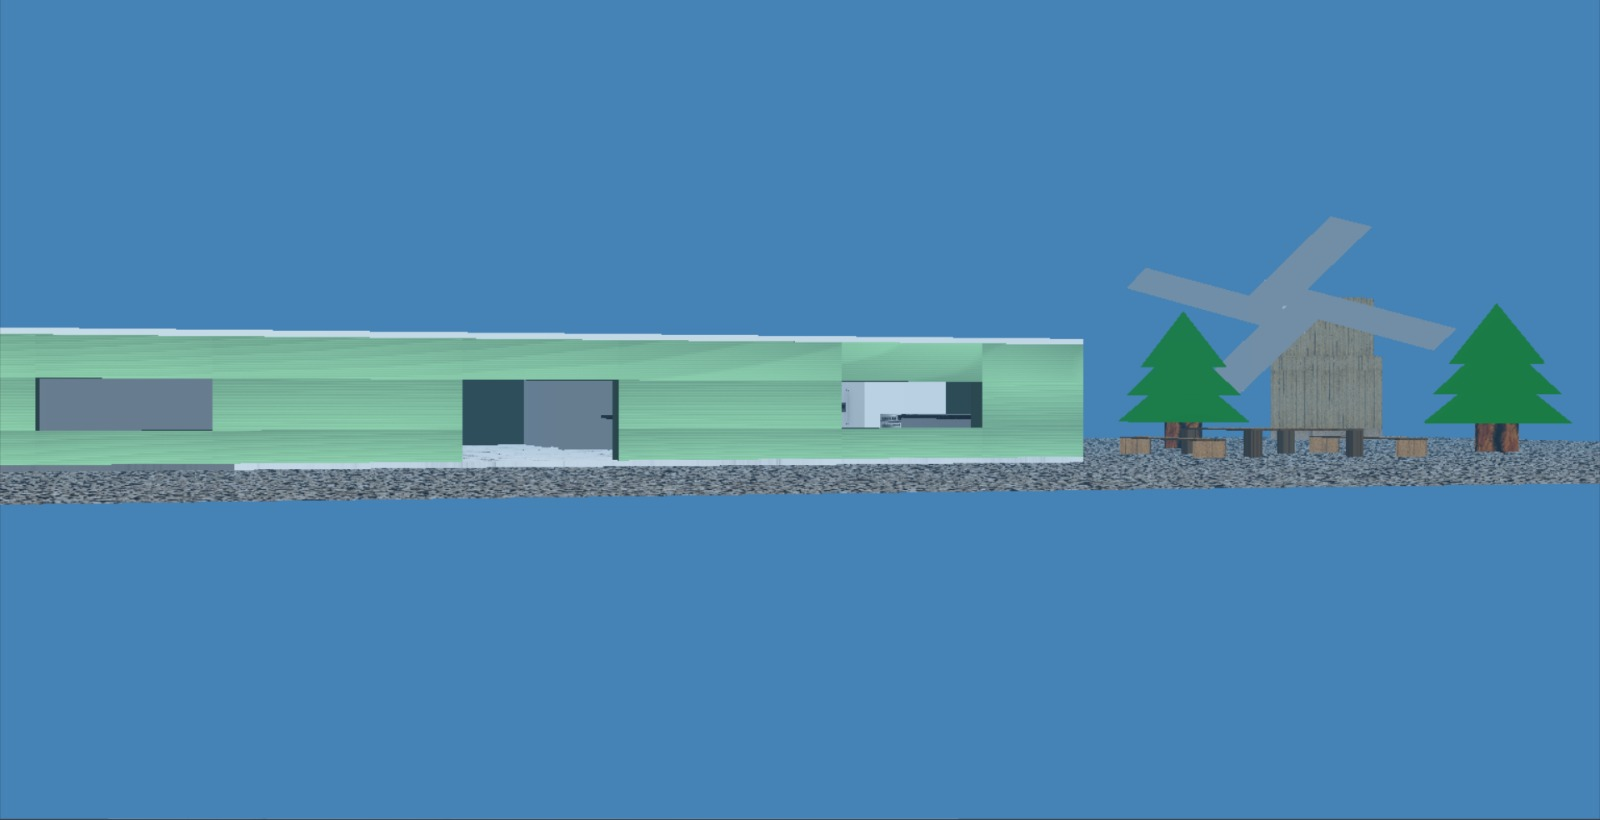
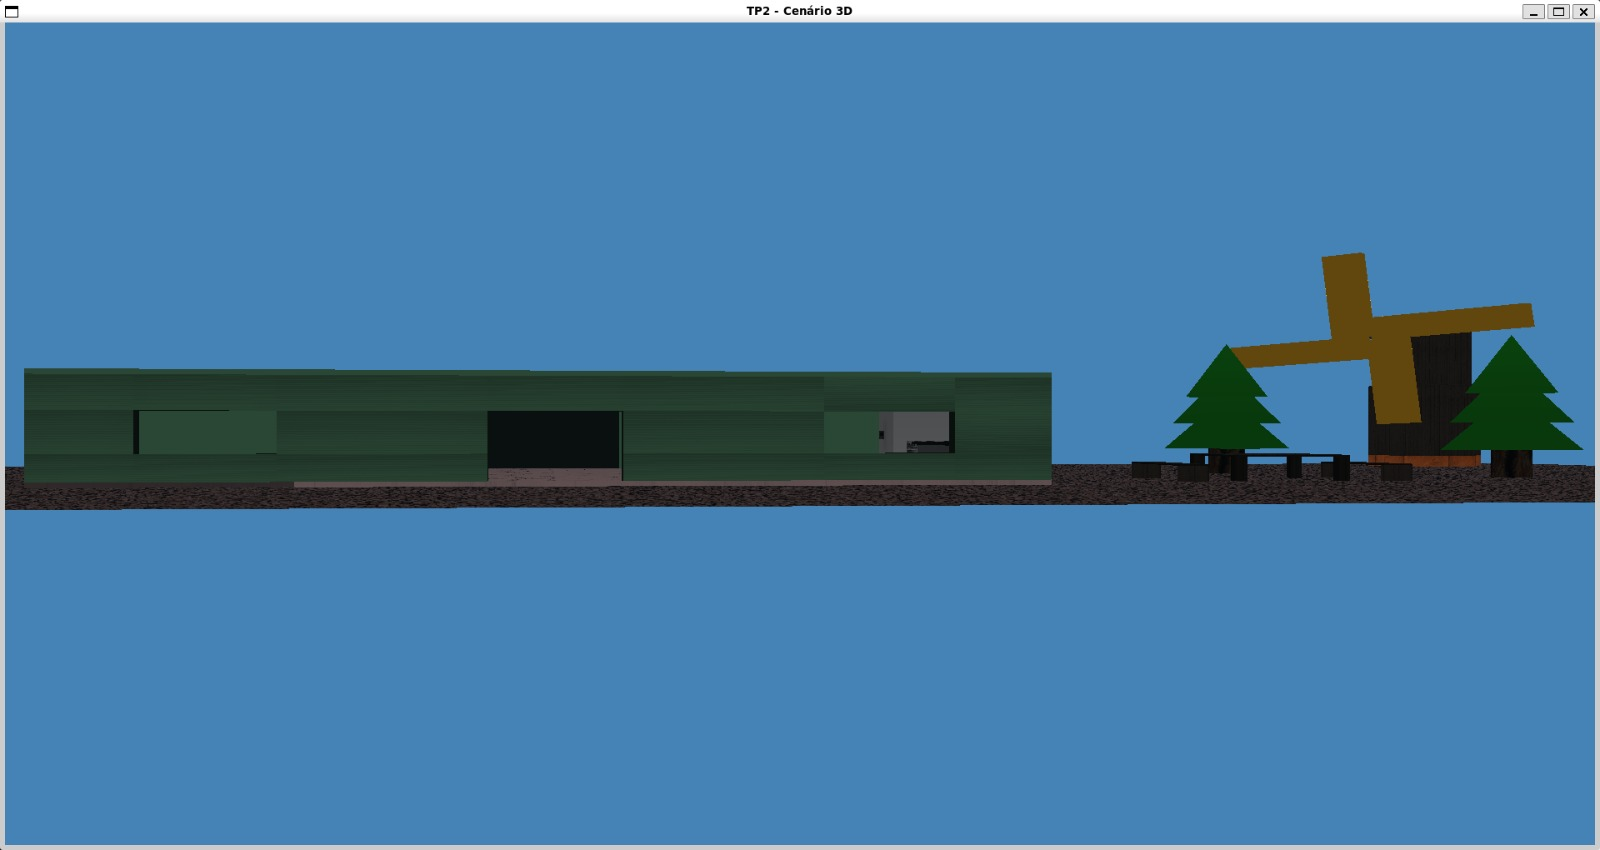
Adicionado o vídeo de apresentação

Changed region(s): [[0.0, 0.0, 1.0, 1.0]]

diff --git a/main.c b/main.c
@@ -1098,7 +1098,7 @@ int main(int argc, char** argv) {
     glutInit(&argc, argv);
     glutInitDisplayMode(GLUT_DOUBLE | GLUT_RGBA | GLUT_DEPTH);
     glutInitWindowSize(800, 800);
-    glutCreateWindow("Cubo");
+    glutCreateWindow("TP2 - Cenário 3D");
     glutDisplayFunc(desenhaCena);
     glutReshapeFunc(redimensionada);
     glutIdleFunc(atualizaCena);
@@ -1110,4 +1110,3 @@ int main(int argc, char** argv) {
     glutMainLoop();
     return 0;
 }
-

diff --git a/README.md b/README.md
@@ -1,20 +1,20 @@
 <h1 align="center">
     <p>Trabalho de Computação Gráfica - Cenário 3D</p>
     <img src="imagens/foto_apresentacao.jpeg">
-    <p>Desperte sua imaginação e mergulhe em um cenário 3D envolvente, repleto de luz, arquitetura e interatividade</p>
+    <p>Desperte sua imaginação e mergulhe em um cenário 3D envolvente, repleto de luz, arquitetura e interatividade!</p>
 </h1>
 
 ## 📚 Visão Geral
 
 O projeto "Trabalho Prático 2 (mini)" consiste na criação de um cenário 3D navegável com uma casa de 4 cômodos, móveis distribuídos, árvores e um moinho de vento em rotação. O cenário inclui iluminação detalhada e efeitos de luz ambiente, difusa e especular.
 
-Tal projeto é um trabalho que foi desenvolvido para a disicplina de Computação Gráfica a pedido do professor André do Centro Federal de Educação Tecnológica de Minas Gerais.
+Tal projeto é um trabalho que foi desenvolvido para a disciplina de Computação Gráfica a pedido do professor André do Centro Federal de Educação Tecnológica de Minas Gerais.
     
 ## 🎮 Preview
 
 <p align="center">
     Clique na imagem abaixo e assista a gameplay, vídeo no qual é detalhado de forma mais lúcida o funcionamento do programa.
-    <a href="videoDeApresentacao">
+    <a href="https://www.youtube.com/watch?v=FUpU-imlW-A">
         <img src="imagens/foto_apresentacao.jpg" alt="Vídeo de Apresentação do Trabalho">
     </a>
 </p>
